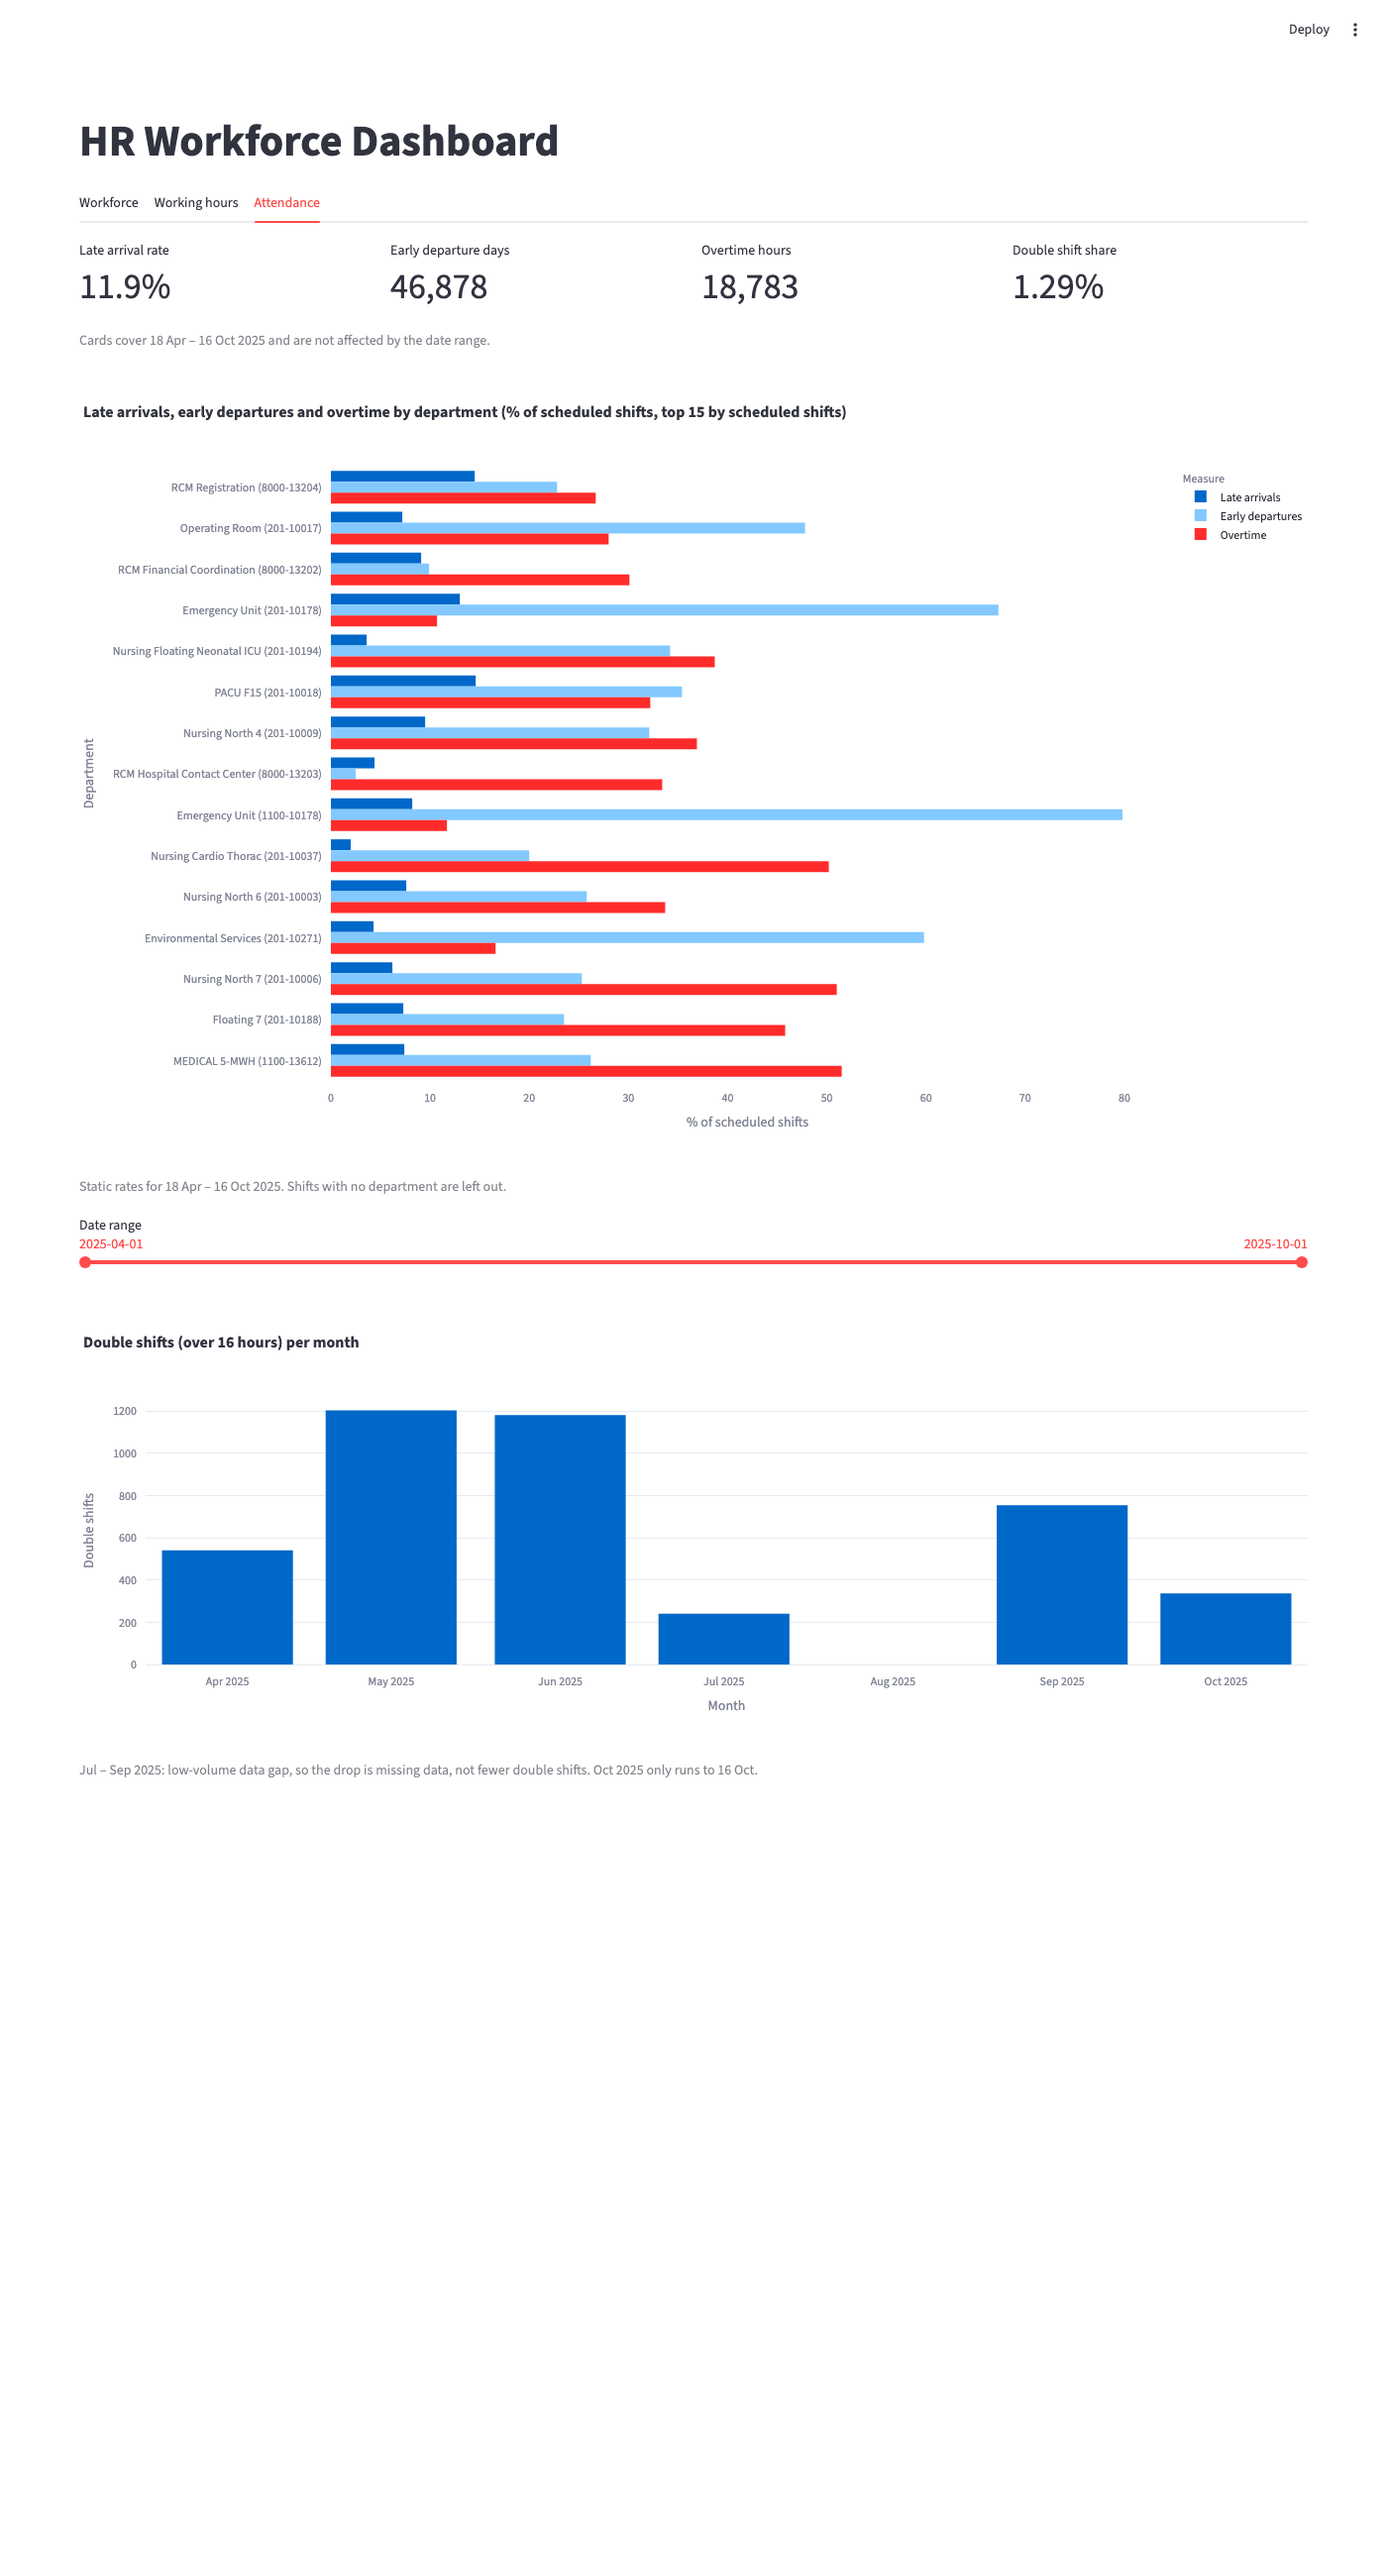
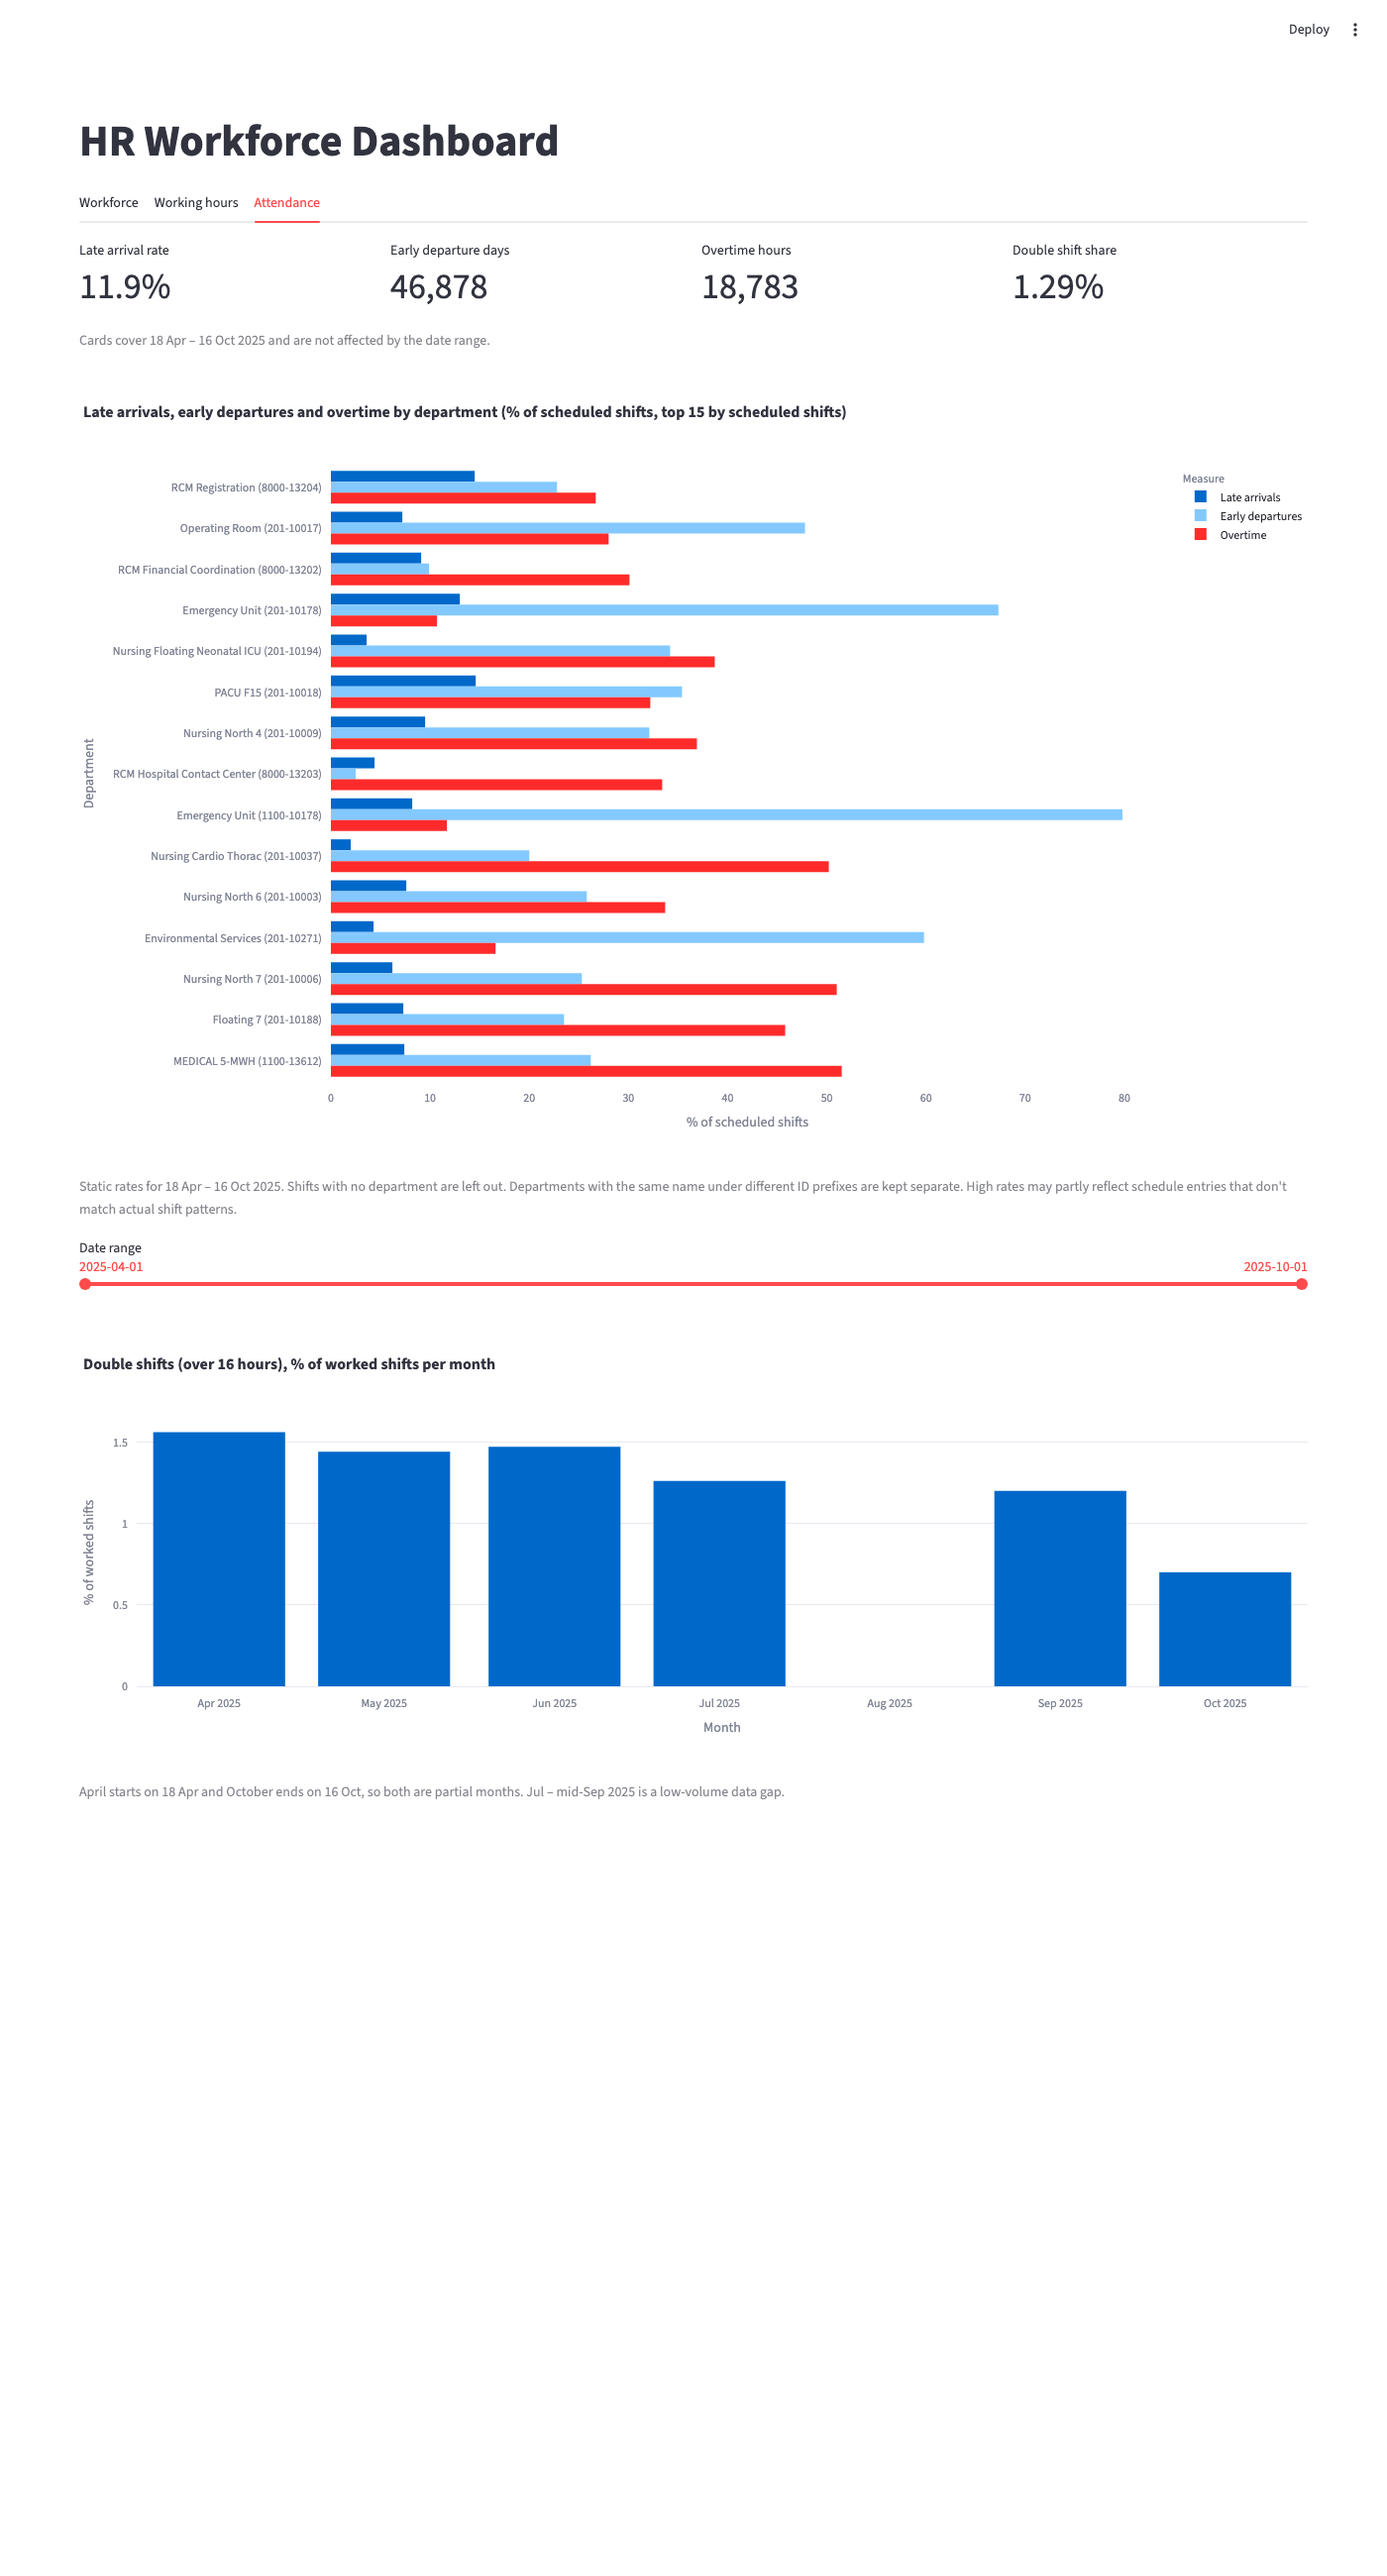
Show double shifts as a share of worked shifts and make the dashboard captions more precise

diff --git a/dashboard/app.py b/dashboard/app.py
@@ -64,8 +64,9 @@ with workforce_tab:
         labels={"avg_tenure_years": "Years", "department_name": "Department",
                 "employees": "Employees"},
     ))
-    st.caption(f"Static snapshot on {last_day:%d %b %Y}. Departments with one "
-               f"employee ({len(tenure) - len(shared)} of {len(tenure)}) are left out.")
+    st.caption(f"Static, all employees on file (current staff and leavers). "
+               f"Departments with one employee ({len(tenure) - len(shared)} of "
+               f"{len(tenure)}) are left out.")
 
     start, end = date_filter("workforce_dates", headcount["as_of_date"].iloc[0], last_day)
     st.plotly_chart(px.line(
@@ -167,22 +168,23 @@ with attendance_tab:
         labels={"department": "Department", "value": "% of scheduled shifts",
                 "variable": "Measure"},
     ).update_yaxes(autorange="reversed"))
-    st.caption(f"Static rates for {period}. Shifts with no department are left out.")
+    st.caption(f"Static rates for {period}. Shifts with no department are left out. "
+               "Departments with the same name under different ID prefixes are "
+               "kept separate. High rates may partly reflect schedule entries "
+               "that don't match actual shift patterns.")
 
     start, end = date_filter("attendance_dates", long_shifts["month"].iloc[0],
                              long_shifts["month"].iloc[-1])
     # Month rows are dated the 1st, so count from the start date's month
     fig = px.bar(
         long_shifts[long_shifts["month"].between(start.replace(day=1), end)],
-        x="month", y="double_shifts",
-        title="Double shifts (over 16 hours) per month",
-        labels={"month": "Month", "double_shifts": "Double shifts"},
+        x="month", y="double_shift_pct",
+        title="Double shifts (over 16 hours), % of worked shifts per month",
+        labels={"month": "Month", "double_shift_pct": "% of worked shifts"},
     )
-    # Whole numbers only
-    fig.update_yaxes(tickformat="d")
     # One tick per month, shown as month and year
     fig.update_xaxes(dtick="M1", tickformat="%b %Y", hoverformat="%b %Y")
     st.plotly_chart(fig)
-    st.caption(f"Jul – Sep 2025: low-volume data gap, so the drop is missing "
-               f"data, not fewer double shifts. {last_day:%b %Y} only runs to "
-               f"{last_day:%d %b}.")
+    st.caption(f"{first_day:%B} starts on {first_day:%d %b} and {last_day:%B} "
+               f"ends on {last_day:%d %b}, so both are partial months. "
+               "Jul – mid-Sep 2025 is a low-volume data gap.")
